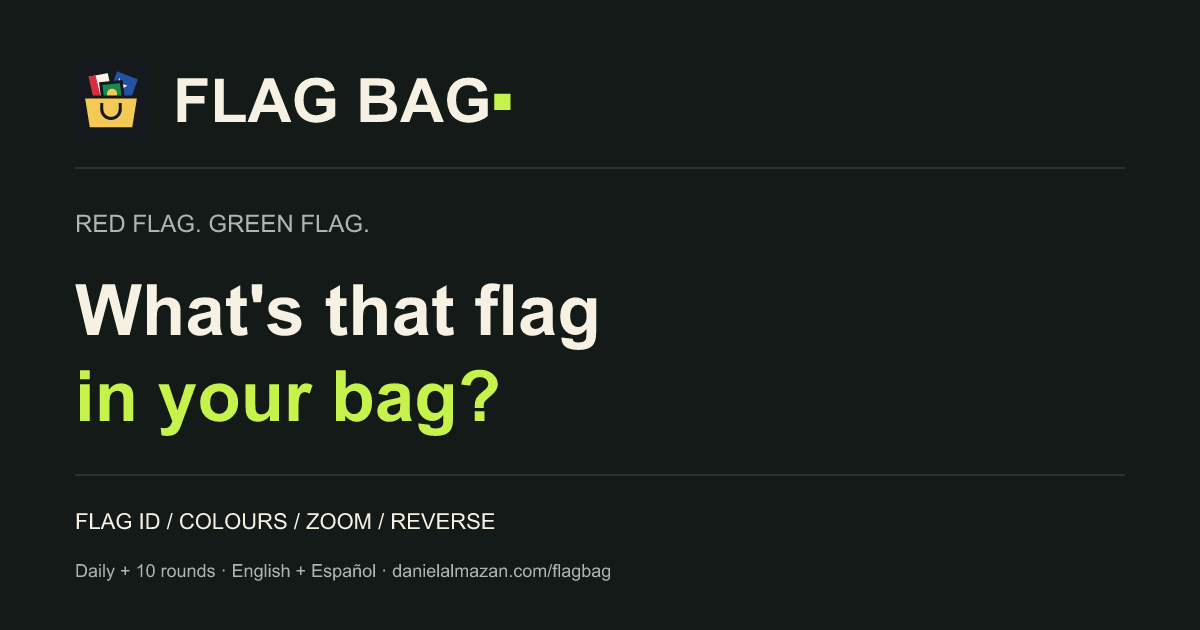
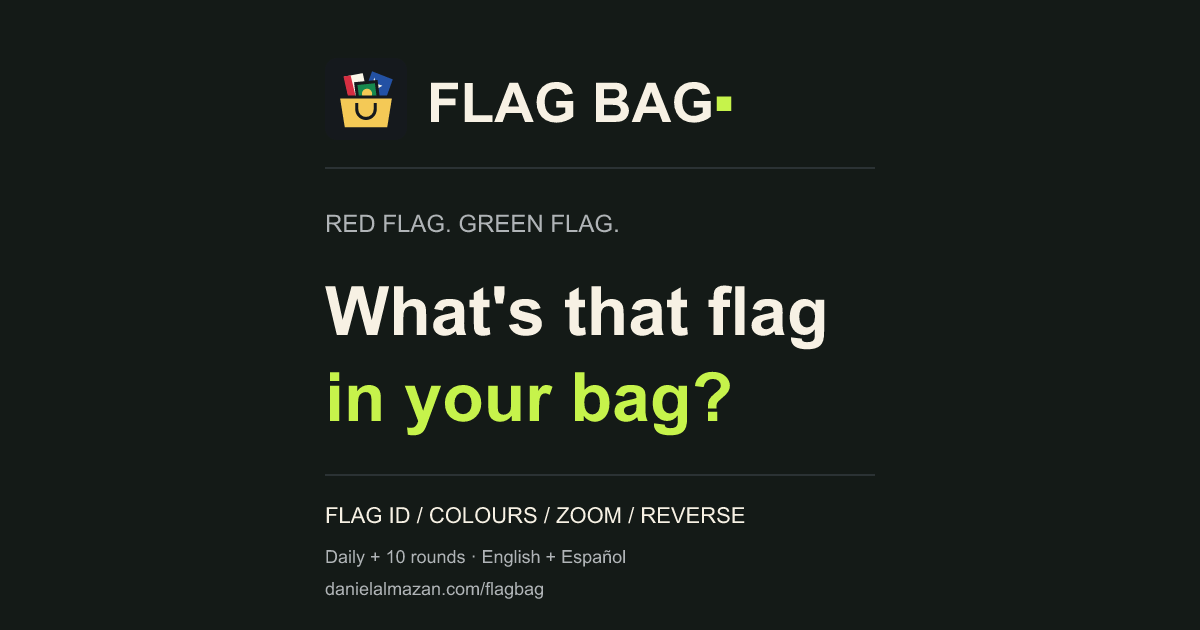
Fix Flag Bag link preview cropping

diff --git a/flagbag/sw.js b/flagbag/sw.js
@@ -1,4 +1,4 @@
-const PREFIX='flagbag-'+encodeURIComponent(new URL('./',self.location).pathname)+'-';const CACHE=PREFIX+'9bb1c9dbe2e4';const ASSETS=["apple-touch-icon.png","assets/index-DhX_BiOB.css","assets/index-DylNl_xY.js","data-sources.html","flags/0096c87d6d96929e2e7a.svg","flags/009d02ec86de7738728c.svg","flags/00debfe5adfaa9268d43.svg","flags/022f91e79e13a30ae6de.svg","flags/03054d924491c213d26b.svg","flags/034729b2c6b22e69289b.svg","flags/0496b90551d9131477f1.svg","flags/04a35515722e7b53cff4.svg","flags/0650b058de3b5523434c.svg","flags/09d119d7ce088742f099.svg","flags/0d04d9eadc49c5514881.svg","flags/0d2711fbf225046ca0d5.svg","flags/0e0f93489451348933b6.svg","flags/0e2c8ac36988d400a9ab.svg","flags/0e3ef5de4cf4cf05a9af.svg","flags/0f0b04d1dd9ac0f3fdde.svg","flags/0f5260531667244713e3.svg","flags/10f3e9bff5024ec7fbe0.svg","flags/137c26f34af7c93e2684.svg","flags/14a4df274e784e760d44.svg","flags/15136dbb85d81f076b08.svg","flags/15777a0dc5a5dd8af5d7.svg","flags/193a9b4f69f07c88ee58.svg","flags/19e0b8e5dde0667fa29a.svg","flags/1a04b7f55b879b568a82.svg","flags/1c231bfcc2251da4ef6c.svg","flags/1d3e2c3e642d1125fd26.svg","flags/1d7c3fc0594c8fb856d9.svg","flags/2068513eca86222ad8ad.svg","flags/213a6fdec979ee7fccd3.svg","flags/22bb1d952bed036a1fe7.svg","flags/248ad1f8cc648c18e5a9.svg","flags/24aea913a6dee250a7d3.svg","flags/25a056467f77be0335bc.svg","flags/28306a3d65e26dd07200.svg","flags/295c651f38ce2bcfac79.svg","flags/2a4fa7f09552fdb73936.svg","flags/2b789773c7afea5c4216.svg","flags/2ba39307b70cc91c2be6.svg","flags/2f4de4153dd44e63cc53.svg","flags/2f57f5b4ec3968d3127d.svg","flags/2fcf6f30a27eee320833.svg","flags/345bc76ab317872c76a1.svg","flags/34e02d19840435e0481b.svg","flags/37a4a7eb7882674751f3.svg","flags/3833f14a3e4461126b4d.svg","flags/385b0a289c7a71a9255c.svg","flags/3899dfac3d4383b59a7e.svg","flags/3a120d1b8ae1b5b1684a.svg","flags/3ad3137b8b0d6218d0a9.svg","flags/3c9bd625251642d1827f.svg","flags/3d7cb6b7bd20d1b84e85.svg","flags/3d8b5561eb66aadeaa71.svg","flags/3ddf34d076f859e88806.svg","flags/3e8e1e5a60208e1c7b65.svg","flags/3ecfe5fb326152e5a127.svg","flags/3f7e408bf6a33dc749a1.svg","flags/3fe9a7eaf8c40d982113.svg","flags/429d40e370103a47cb2f.svg","flags/43bdbf3dc814370b2340.svg","flags/442240b6d0d4290a8a5b.svg","flags/44c7c02c090f73bd9284.svg","flags/481dcdd8955a9010fa0a.svg","flags/490517f9cb3673d4d47c.svg","flags/4a83ca2aed02bb35e22e.svg","flags/4c303bdcb88aaafcbe5f.svg","flags/4c6adad3941f5a3188b3.svg","flags/4cbd843ba82e44f98b94.svg","flags/4d1570ba389319522de3.svg","flags/4d2d46c227d6d79412d4.svg","flags/4d41f43f997d2ee824a5.svg","flags/4dba7cc5500d3333d9ac.svg","flags/503c8dbb00b0c50e3ce0.svg","flags/512d2095273e9fb72c74.svg","flags/515d1d55fb5dce0633ca.svg","flags/53e13f87a6bb02577052.svg","flags/562a5d03434482410215.svg","flags/58b8e7d0632c3fba68cb.svg","flags/5a1b89a96e2aa10f9530.svg","flags/5a74472a9a39832a5297.svg","flags/5be22b2bf94b293c9757.svg","flags/5c01acd2e7c40e2d6c98.svg","flags/5e20d135da10da028889.svg","flags/5e8cbd765d827e49d503.svg","flags/5fa2461d053598fecbee.svg","flags/608e5ed6a0820b02ac00.svg","flags/635f0bab5afec360fb9d.svg","flags/64aa892eda2ab88830fb.svg","flags/66b405e485671737e530.svg","flags/6869ef169ef5c04e9cab.svg","flags/6878beb0c4eb1847222a.svg","flags/6a681c59df0e164bddf2.svg","flags/6b5f4ee040c1f9043a51.svg","flags/6c5ae3648ab1ab7750b9.svg","flags/6de08e626dc2dfe251b8.svg","flags/7061dea3193d89e0d9b1.svg","flags/70a7ec0a17d0d950de79.svg","flags/725242efbc3881df5d8e.svg","flags/7306ca60a27ed078a9ba.svg","flags/747e9450a3bee045ce76.svg","flags/74d5bb92c46828c260dd.svg","flags/7504bdf1bc9b381f89b4.svg","flags/7575fd4dfb8b7ea4c270.svg","flags/7803ee8aa8eaffed9607.svg","flags/7a0f5ab104f86a946ae8.svg","flags/7b12f9a684a2aa38c5f9.svg","flags/7d0ee31864fc345cee43.svg","flags/7d69a93b4da13040879b.svg","flags/7da64a9ca06f04e89204.svg","flags/7ddd7057e88c52484dfd.svg","flags/7e660d8e134f557dad7c.svg","flags/7f0efded53612351771e.svg","flags/7f2673cdef6dcd8276c6.svg","flags/82847f565fd12516c8f5.svg","flags/83bd1b9215c403d205eb.svg","flags/84b5d48d566eebd5314f.svg","flags/86cce2a11b19e83087b4.svg","flags/8aae6052300f6e46423b.svg","flags/8b2f4dfc800df036e3ee.svg","flags/8b72b27e5bb712f269e2.svg","flags/8b93452003c143c46f6c.svg","flags/8ffb26766aa814ec4b2f.svg","flags/900f15b29ee630f298e7.svg","flags/90a665aec32d7890ce36.svg","flags/920f884361e7aac72060.svg","flags/934499420a4ff4eee30e.svg","flags/95add5e031200ed0ce3e.svg","flags/976e43f7ddef4b9de467.svg","flags/9bd8822f57b2eeefc217.svg","flags/9e00bfa393c4bd5f04b1.svg","flags/9fa2004394439d953744.svg","flags/a072d98e77f1b64f2e57.svg","flags/a5a4cc02cd45921586e0.svg","flags/a5bd06898354acf1bce8.svg","flags/a5be43aa874d0540d4e5.svg","flags/a5f98939094b0768908e.svg","flags/a71bcb7e97223bdca2ff.svg","flags/a7b8900cf70e359764c9.svg","flags/a8df94da01c0b439521a.svg","flags/aa1f0ba45dbe0fff8865.svg","flags/aaa15769e75817be343d.svg","flags/ace264789395de19f639.svg","flags/ae8b9d7047b970674dd4.svg","flags/aec0767c387f229f59e4.svg","flags/b01f27fd487bb6036b1f.svg","flags/b38f305e68187c6b436e.svg","flags/b52bf90a8165cecd27e6.svg","flags/b5bdcaca177b6c840660.svg","flags/bb659cd27a4bb065b226.svg","flags/bba7c1404546f19c33d2.svg","flags/bde8b96d19af8ffbe3d5.svg","flags/bf0238a8dcbb5fd74a13.svg","flags/bf2dace6f091abae7513.svg","flags/c015ebd89ffaff76c6b2.svg","flags/c1c25f3b5815e56ea2cd.svg","flags/c7cd484b294cc4ef265c.svg","flags/c9a6196e563c60601b2a.svg","flags/ca2804577f06100f17e9.svg","flags/cb23a0181c34027067d2.svg","flags/cc5763382f8418db0af1.svg","flags/ce13b73b5e5117504666.svg","flags/cedd0a665a0ab17ba183.svg","flags/d3186a06e97966a28552.svg","flags/d73904fc19512f5bb9bf.svg","flags/d7e5cedcbdac0a180846.svg","flags/d7f52c57bf9da6a6e632.svg","flags/d84162ede95126ea0ba1.svg","flags/dadff8703d040d8e4a50.svg","flags/dc01781121dcb300dc8e.svg","flags/dc4827058fb343b6fa63.svg","flags/ddcff45b5ce69bad2a69.svg","flags/de1442010432e1da1a1d.svg","flags/de878746e98d108ac798.svg","flags/df9e4177d2cab1874a2e.svg","flags/e07786f2d467b66cae6e.svg","flags/e084ea92ab4ce39bb662.svg","flags/e186a115b908b3ab3ca2.svg","flags/e24dca30a7fce22312af.svg","flags/e57d72a09cc42bfe39a6.svg","flags/e5eec807a6ded2719e33.svg","flags/e632a93f6e3e0288f8c2.svg","flags/ea1f1e13a990e4cc97ba.svg","flags/ea3e3c17cfd414a40331.svg","flags/ef907add1a490491e558.svg","flags/f05db9e77aa5036cd35c.svg","flags/f0e896e4c587b4ce6b76.svg","flags/f1f66305175f8c1c241a.svg","flags/f2d8f9960059723cb938.svg","flags/f4512cc9fe389b8349a4.svg","flags/fae6d6bcdeb9237aa121.svg","flags/fb6edde7d035a4015358.svg","flags/fcd37fd3cfa7b2701185.svg","flags/fd6218fc6798295d3f8a.svg","flags/fe132d9cc0f86823c087.svg","flags/ffd804cf2861795f1746.svg","fonts/arcade.woff2","fonts/body-semibold.woff2","fonts/body.woff2","fonts/display.woff2","icon-192.png","icon-512.png","icon.svg","index.html","licenses/Chakra-Petch-OFL.txt","licenses/Flags-NOTICE.txt","licenses/IBM-Plex-Sans-OFL.txt","licenses/Press-Start-2P-OFL.txt","licenses/React-DOM-MIT.txt","licenses/React-MIT.txt","manifest.webmanifest","social-preview.png","theme.css","theme.js"];const root=new URL('./',self.location).href;
+const PREFIX='flagbag-'+encodeURIComponent(new URL('./',self.location).pathname)+'-';const CACHE=PREFIX+'be5eff4d36ad';const ASSETS=["apple-touch-icon.png","assets/index-DhX_BiOB.css","assets/index-DylNl_xY.js","data-sources.html","flags/0096c87d6d96929e2e7a.svg","flags/009d02ec86de7738728c.svg","flags/00debfe5adfaa9268d43.svg","flags/022f91e79e13a30ae6de.svg","flags/03054d924491c213d26b.svg","flags/034729b2c6b22e69289b.svg","flags/0496b90551d9131477f1.svg","flags/04a35515722e7b53cff4.svg","flags/0650b058de3b5523434c.svg","flags/09d119d7ce088742f099.svg","flags/0d04d9eadc49c5514881.svg","flags/0d2711fbf225046ca0d5.svg","flags/0e0f93489451348933b6.svg","flags/0e2c8ac36988d400a9ab.svg","flags/0e3ef5de4cf4cf05a9af.svg","flags/0f0b04d1dd9ac0f3fdde.svg","flags/0f5260531667244713e3.svg","flags/10f3e9bff5024ec7fbe0.svg","flags/137c26f34af7c93e2684.svg","flags/14a4df274e784e760d44.svg","flags/15136dbb85d81f076b08.svg","flags/15777a0dc5a5dd8af5d7.svg","flags/193a9b4f69f07c88ee58.svg","flags/19e0b8e5dde0667fa29a.svg","flags/1a04b7f55b879b568a82.svg","flags/1c231bfcc2251da4ef6c.svg","flags/1d3e2c3e642d1125fd26.svg","flags/1d7c3fc0594c8fb856d9.svg","flags/2068513eca86222ad8ad.svg","flags/213a6fdec979ee7fccd3.svg","flags/22bb1d952bed036a1fe7.svg","flags/248ad1f8cc648c18e5a9.svg","flags/24aea913a6dee250a7d3.svg","flags/25a056467f77be0335bc.svg","flags/28306a3d65e26dd07200.svg","flags/295c651f38ce2bcfac79.svg","flags/2a4fa7f09552fdb73936.svg","flags/2b789773c7afea5c4216.svg","flags/2ba39307b70cc91c2be6.svg","flags/2f4de4153dd44e63cc53.svg","flags/2f57f5b4ec3968d3127d.svg","flags/2fcf6f30a27eee320833.svg","flags/345bc76ab317872c76a1.svg","flags/34e02d19840435e0481b.svg","flags/37a4a7eb7882674751f3.svg","flags/3833f14a3e4461126b4d.svg","flags/385b0a289c7a71a9255c.svg","flags/3899dfac3d4383b59a7e.svg","flags/3a120d1b8ae1b5b1684a.svg","flags/3ad3137b8b0d6218d0a9.svg","flags/3c9bd625251642d1827f.svg","flags/3d7cb6b7bd20d1b84e85.svg","flags/3d8b5561eb66aadeaa71.svg","flags/3ddf34d076f859e88806.svg","flags/3e8e1e5a60208e1c7b65.svg","flags/3ecfe5fb326152e5a127.svg","flags/3f7e408bf6a33dc749a1.svg","flags/3fe9a7eaf8c40d982113.svg","flags/429d40e370103a47cb2f.svg","flags/43bdbf3dc814370b2340.svg","flags/442240b6d0d4290a8a5b.svg","flags/44c7c02c090f73bd9284.svg","flags/481dcdd8955a9010fa0a.svg","flags/490517f9cb3673d4d47c.svg","flags/4a83ca2aed02bb35e22e.svg","flags/4c303bdcb88aaafcbe5f.svg","flags/4c6adad3941f5a3188b3.svg","flags/4cbd843ba82e44f98b94.svg","flags/4d1570ba389319522de3.svg","flags/4d2d46c227d6d79412d4.svg","flags/4d41f43f997d2ee824a5.svg","flags/4dba7cc5500d3333d9ac.svg","flags/503c8dbb00b0c50e3ce0.svg","flags/512d2095273e9fb72c74.svg","flags/515d1d55fb5dce0633ca.svg","flags/53e13f87a6bb02577052.svg","flags/562a5d03434482410215.svg","flags/58b8e7d0632c3fba68cb.svg","flags/5a1b89a96e2aa10f9530.svg","flags/5a74472a9a39832a5297.svg","flags/5be22b2bf94b293c9757.svg","flags/5c01acd2e7c40e2d6c98.svg","flags/5e20d135da10da028889.svg","flags/5e8cbd765d827e49d503.svg","flags/5fa2461d053598fecbee.svg","flags/608e5ed6a0820b02ac00.svg","flags/635f0bab5afec360fb9d.svg","flags/64aa892eda2ab88830fb.svg","flags/66b405e485671737e530.svg","flags/6869ef169ef5c04e9cab.svg","flags/6878beb0c4eb1847222a.svg","flags/6a681c59df0e164bddf2.svg","flags/6b5f4ee040c1f9043a51.svg","flags/6c5ae3648ab1ab7750b9.svg","flags/6de08e626dc2dfe251b8.svg","flags/7061dea3193d89e0d9b1.svg","flags/70a7ec0a17d0d950de79.svg","flags/725242efbc3881df5d8e.svg","flags/7306ca60a27ed078a9ba.svg","flags/747e9450a3bee045ce76.svg","flags/74d5bb92c46828c260dd.svg","flags/7504bdf1bc9b381f89b4.svg","flags/7575fd4dfb8b7ea4c270.svg","flags/7803ee8aa8eaffed9607.svg","flags/7a0f5ab104f86a946ae8.svg","flags/7b12f9a684a2aa38c5f9.svg","flags/7d0ee31864fc345cee43.svg","flags/7d69a93b4da13040879b.svg","flags/7da64a9ca06f04e89204.svg","flags/7ddd7057e88c52484dfd.svg","flags/7e660d8e134f557dad7c.svg","flags/7f0efded53612351771e.svg","flags/7f2673cdef6dcd8276c6.svg","flags/82847f565fd12516c8f5.svg","flags/83bd1b9215c403d205eb.svg","flags/84b5d48d566eebd5314f.svg","flags/86cce2a11b19e83087b4.svg","flags/8aae6052300f6e46423b.svg","flags/8b2f4dfc800df036e3ee.svg","flags/8b72b27e5bb712f269e2.svg","flags/8b93452003c143c46f6c.svg","flags/8ffb26766aa814ec4b2f.svg","flags/900f15b29ee630f298e7.svg","flags/90a665aec32d7890ce36.svg","flags/920f884361e7aac72060.svg","flags/934499420a4ff4eee30e.svg","flags/95add5e031200ed0ce3e.svg","flags/976e43f7ddef4b9de467.svg","flags/9bd8822f57b2eeefc217.svg","flags/9e00bfa393c4bd5f04b1.svg","flags/9fa2004394439d953744.svg","flags/a072d98e77f1b64f2e57.svg","flags/a5a4cc02cd45921586e0.svg","flags/a5bd06898354acf1bce8.svg","flags/a5be43aa874d0540d4e5.svg","flags/a5f98939094b0768908e.svg","flags/a71bcb7e97223bdca2ff.svg","flags/a7b8900cf70e359764c9.svg","flags/a8df94da01c0b439521a.svg","flags/aa1f0ba45dbe0fff8865.svg","flags/aaa15769e75817be343d.svg","flags/ace264789395de19f639.svg","flags/ae8b9d7047b970674dd4.svg","flags/aec0767c387f229f59e4.svg","flags/b01f27fd487bb6036b1f.svg","flags/b38f305e68187c6b436e.svg","flags/b52bf90a8165cecd27e6.svg","flags/b5bdcaca177b6c840660.svg","flags/bb659cd27a4bb065b226.svg","flags/bba7c1404546f19c33d2.svg","flags/bde8b96d19af8ffbe3d5.svg","flags/bf0238a8dcbb5fd74a13.svg","flags/bf2dace6f091abae7513.svg","flags/c015ebd89ffaff76c6b2.svg","flags/c1c25f3b5815e56ea2cd.svg","flags/c7cd484b294cc4ef265c.svg","flags/c9a6196e563c60601b2a.svg","flags/ca2804577f06100f17e9.svg","flags/cb23a0181c34027067d2.svg","flags/cc5763382f8418db0af1.svg","flags/ce13b73b5e5117504666.svg","flags/cedd0a665a0ab17ba183.svg","flags/d3186a06e97966a28552.svg","flags/d73904fc19512f5bb9bf.svg","flags/d7e5cedcbdac0a180846.svg","flags/d7f52c57bf9da6a6e632.svg","flags/d84162ede95126ea0ba1.svg","flags/dadff8703d040d8e4a50.svg","flags/dc01781121dcb300dc8e.svg","flags/dc4827058fb343b6fa63.svg","flags/ddcff45b5ce69bad2a69.svg","flags/de1442010432e1da1a1d.svg","flags/de878746e98d108ac798.svg","flags/df9e4177d2cab1874a2e.svg","flags/e07786f2d467b66cae6e.svg","flags/e084ea92ab4ce39bb662.svg","flags/e186a115b908b3ab3ca2.svg","flags/e24dca30a7fce22312af.svg","flags/e57d72a09cc42bfe39a6.svg","flags/e5eec807a6ded2719e33.svg","flags/e632a93f6e3e0288f8c2.svg","flags/ea1f1e13a990e4cc97ba.svg","flags/ea3e3c17cfd414a40331.svg","flags/ef907add1a490491e558.svg","flags/f05db9e77aa5036cd35c.svg","flags/f0e896e4c587b4ce6b76.svg","flags/f1f66305175f8c1c241a.svg","flags/f2d8f9960059723cb938.svg","flags/f4512cc9fe389b8349a4.svg","flags/fae6d6bcdeb9237aa121.svg","flags/fb6edde7d035a4015358.svg","flags/fcd37fd3cfa7b2701185.svg","flags/fd6218fc6798295d3f8a.svg","flags/fe132d9cc0f86823c087.svg","flags/ffd804cf2861795f1746.svg","fonts/arcade.woff2","fonts/body-semibold.woff2","fonts/body.woff2","fonts/display.woff2","icon-192.png","icon-512.png","icon.svg","index.html","licenses/Chakra-Petch-OFL.txt","licenses/Flags-NOTICE.txt","licenses/IBM-Plex-Sans-OFL.txt","licenses/Press-Start-2P-OFL.txt","licenses/React-DOM-MIT.txt","licenses/React-MIT.txt","manifest.webmanifest","social-preview.png","theme.css","theme.js"];const root=new URL('./',self.location).href;
 self.addEventListener('install',event=>event.waitUntil((async()=>{const cache=await caches.open(CACHE);let cursor=0;try{const result=await Promise.allSettled(Array.from({length:6},async()=>{while(cursor<ASSETS.length){const file=ASSETS[cursor++],response=await fetch(new URL(file,root),{cache:'reload'});if(!response.ok)throw Error(file);await cache.put(new URL(file,root),response);}}));const failure=result.find(r=>r.status==='rejected');if(failure)throw failure.reason;}catch(error){await caches.delete(CACHE);throw error;}})()));
 self.addEventListener('activate',event=>event.waitUntil((async()=>{await Promise.all((await caches.keys()).filter(k=>k.startsWith(PREFIX)&&k!==CACHE).map(k=>caches.delete(k)));await self.clients.claim();(await self.clients.matchAll()).forEach(c=>c.postMessage({type:'OFFLINE_READY'}));})()));
 self.addEventListener('message',event=>{if(event.data?.type==='SKIP_WAITING')event.waitUntil(self.skipWaiting());if(event.data?.type==='OFFLINE_STATUS')event.waitUntil((async()=>{const cache=await caches.open(CACHE),keys=new Set((await cache.keys()).map(r=>r.url));event.source?.postMessage({type:ASSETS.every(f=>keys.has(new URL(f,root).href))?'OFFLINE_READY':'OFFLINE_RETRY'});})());});

diff --git a/flagbag/index.html b/flagbag/index.html
@@ -19,7 +19,7 @@
     <script src="./theme.js"></script>
     <script type="module" crossorigin src="./assets/index-DylNl_xY.js"></script>
     <link rel="stylesheet" crossorigin href="./assets/index-DhX_BiOB.css">
-  <link rel="canonical" href="https://danielalmazan.com/flagbag/"><meta property="og:type" content="website"><meta property="og:site_name" content="Flag Bag"><meta property="og:title" content="Flag Bag — Four daily flag games"><meta property="og:description" content="Four ways to know your flags. Daily and 10-round challenges in English and Spanish."><meta property="og:url" content="https://danielalmazan.com/flagbag/"><meta property="og:image" content="https://danielalmazan.com/flagbag/social-preview.png"><meta property="og:image:width" content="1200"><meta property="og:image:height" content="630"><meta name="twitter:card" content="summary_large_image"></head>
+  <link rel="canonical" href="https://danielalmazan.com/flagbag/"><meta property="og:type" content="website"><meta property="og:site_name" content="Flag Bag"><meta property="og:title" content="Flag Bag — Four daily flag games"><meta property="og:description" content="Four ways to know your flags. Daily and 10-round challenges in English and Spanish."><meta property="og:url" content="https://danielalmazan.com/flagbag/"><meta property="og:image" content="https://danielalmazan.com/flagbag/social-preview.png?v=085ab1bfc893"><meta property="og:image:width" content="1200"><meta property="og:image:height" content="630"><meta name="twitter:card" content="summary_large_image"></head>
   <body>
     <div id="root"></div>
   </body>
